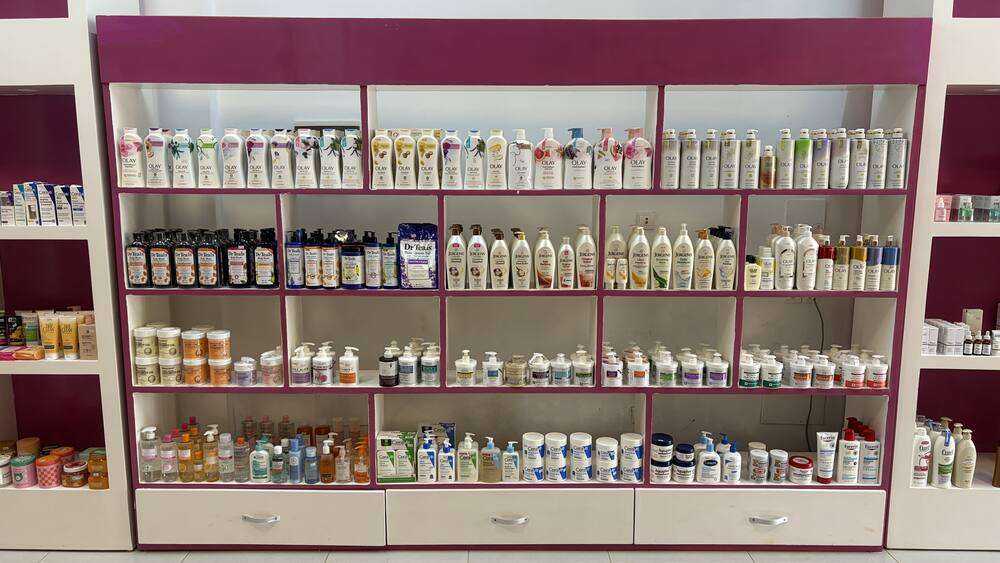
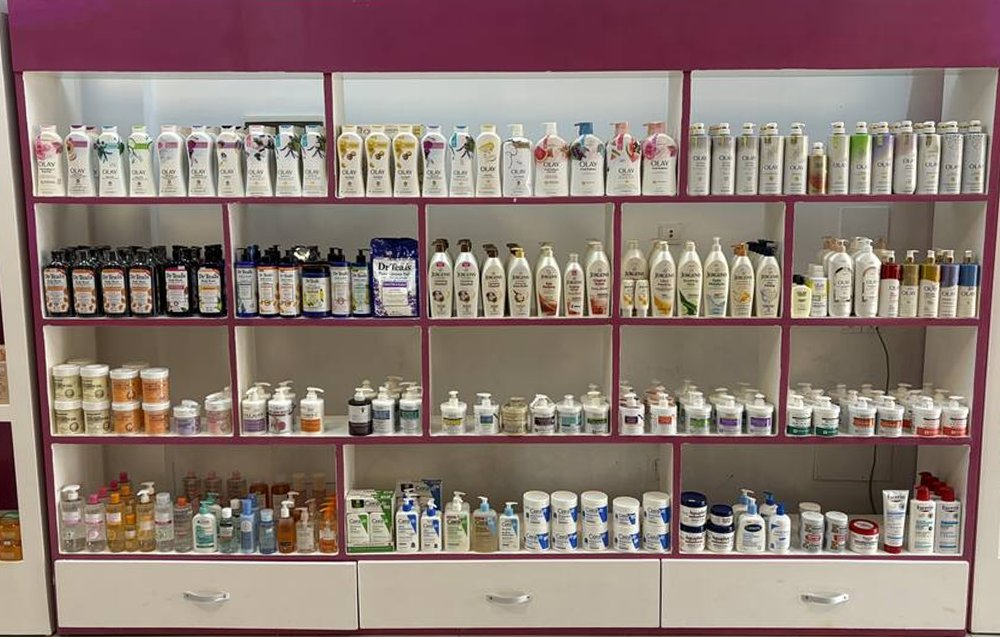
Stock1981: straightened Balkuy photos for 1D 1F 1S 2C 2D 3A 3O 3S 4O F3b M1 (chosen by 1981) with matching shelf boxes; older boxes drawn on the old photos ignored
Claude-Session: https://claude.ai/code/session_01TC7EvBJdmZnMjNwqv5DwfL

diff --git a/Stock1981.html b/Stock1981.html
@@ -1527,7 +1527,7 @@ function finishUnit(){
 //  An Admin can move / resize boxes (✏ Ajuster les cases) and save them to
 //  the Sheet (setZonePhotoTraces), for everyone.
 // ══════════════════════════════════════════════════════════════════
-const TRACES_BUILTIN = {"Store 1":{"1A":{"pw":563,"ph":1000,"spots":{"1A-4":[33,9,35,21],"1A-3":[33,39,35,17],"1A-2":[33,57,35,16],"1A-1":[33,74,35,16]}},"1B":{"pw":1000,"ph":563,"spots":{"1B-5-1":[14,18,18.5,12],"1B-5-2":[33,18,18.5,12],"1B-5-3":[52,18,18,12],"1B-5-4":[70.5,18,15.5,12],"1B-4-1":[14,30,18.5,13],"1B-4-2":[33,30,18.5,13],"1B-4-3":[52,30,18,13],"1B-4-4":[70.5,30,15.5,13],"1B-3-1":[14,43,18.5,14],"1B-3-2":[33,43,18.5,14],"1B-3-3":[52,43,18,14],"1B-3-4":[70.5,43,15.5,14],"1B-2-1":[14,57,18.5,13],"1B-2-2":[33,57,18.5,13],"1B-2-3":[52,57,18,13],"1B-2-4":[70.5,57,15.5,13],"1B-1-1":[14,70,18.5,14],"1B-1-2":[33,70,18.5,14],"1B-1-3":[52,70,18,14],"1B-1-4":[70.5,70,15.5,14],"1B-T1":[14,85,18.5,12],"1B-T2":[33,85,18.5,12],"1B-T3":[52,85,18,12],"1B-T4":[70.5,85,15.5,12]}},"1C":{"pw":563,"ph":1000,"spots":{"1C-4":[34,16,35,17],"1C-3":[34,40,35,14],"1C-2":[34,55,35,13],"1C-1":[34,69,35,12]}},"1D":{"pw":1000,"ph":938,"spots":{"1D-4-1":[2,20,34,15],"1D-4-2":[37,20,29,15],"1D-4-3":[67,20,27,15],"1D-3-1":[2,35,34,17],"1D-3-2":[37,35,29,17],"1D-3-3":[67,35,27,17],"1D-2-1":[2,53,34,16],"1D-2-2":[37,53,29,16],"1D-2-3":[67,53,27,16],"1D-1-1":[2,70,34,16],"1D-1-2":[37,70,29,16],"1D-1-3":[67,70,27,16],"1D-T1":[2,87,34,11],"1D-T2":[37,87,29,11],"1D-T3":[67,87,27,11]}},"1E":{"pw":563,"ph":1000,"spots":{"1E-4":[21,9,46,21],"1E-3":[21,40,46,16],"1E-2":[21,57,46,16],"1E-1":[21,74,46,17]}},"1F":{"pw":1000,"ph":563,"spots":{"1F-4-1":[10,17,26,14],"1F-4-2":[36,17,30,14],"1F-4-3":[66,17,25,14],"1F-3-1":[10,32,19,18],"1F-3-2":[29,32,15,18],"1F-3-3":[44,32,16,18],"1F-3-4":[60,32,15,18],"1F-3-5":[75,32,16,18],"1F-2-1":[10,51,19,16],"1F-2-2":[29,51,15,16],"1F-2-3":[44,51,16,16],"1F-2-4":[60,51,15,16],"1F-2-5":[75,51,16,16],"1F-1-1":[10,68,28,16],"1F-1-2":[38,68,25,16],"1F-1-3":[63,68,28,16],"1F-T1":[13,85,25,12],"1F-T2":[38,85,25,12],"1F-T3":[63,85,26,12]}},"1G":{"pw":563,"ph":1000,"spots":{"1G-4":[25,7,35,20],"1G-3":[25,35,35,17],"1G-2":[25,53,35,16],"1G-1":[25,70,35,16]}},"1H":{"pw":563,"ph":1000,"spots":{"1H-4-1":[11,30,49,15],"1H-4-2":[60,30,33,13],"1H-3-1":[11,45,35,13],"1H-3-2":[47,45,24,12],"1H-3-3":[71,44,22,12],"1H-2-1":[11,58,34,13],"1H-2-2":[46,57,24,12],"1H-2-3":[70,56,23,11],"1H-1-1":[11,71,34,13],"1H-1-2":[45,69,25,12],"1H-1-3":[70,67,23,11],"1H-T1":[11,84,47,12],"1H-T2":[58,81,34,11]}},"1O":{"pw":563,"ph":1000,"spots":{"1O-7":[57,17,40,10],"1O-6":[57,27,40,9],"1O-5":[57,36,40,10],"1O-4":[57,46,40,10],"1O-3":[57,56,40,10],"1O-2":[57,66,40,11],"1O-1":[57,77,40,15]}},"2A":{"pw":563,"ph":1000,"spots":{"2A-5":[56,15,40,13],"2A-4":[56,28,40,12],"2A-3":[56,40,40,12],"2A-2":[56,51,40,12],"2A-1":[57,62,38,12],"2A-T1":[57,74,38,13],"2A-C6":[25,8,30,13],"2A-C5":[25,21,30,14],"2A-C4":[25,35,30,15],"2A-C3":[25,50,30,13],"2A-C2":[25,63,30,12],"2A-C1":[25,75,30,15]}},"2B":{"pw":563,"ph":1000,"spots":{"2B-5":[3,17,42,14],"2B-4":[3,29,42,13],"2B-3":[3,40,42,13],"2B-2":[3,50,42,13],"2B-1":[3,60,42,14],"2B-T1":[3,72,42,16],"2B-C6":[46,5,34,15],"2B-C5":[46,20,34,17],"2B-C4":[46,37,34,16],"2B-C3":[46,53,34,15],"2B-C2":[46,68,34,14],"2B-C1":[46,82,34,14]}},"2C":{"pw":1000,"ph":563,"spots":{"2C-3":[22,20,51,21],"2C-2":[22,41,51,25],"2C-1":[22,66,51,24],"2C-G5":[14,18,9,12],"2C-G4":[14,30,9,16],"2C-G3":[14,46,9,14],"2C-G2":[14,60,9,12],"2C-G1":[14,72,9,15],"2C-D5":[73,26,13,10],"2C-D4":[73,36,13,12],"2C-D3":[73,48,13,10],"2C-D2":[73,58,13,12],"2C-D1":[73,70,13,12]}},"2D":{"pw":563,"ph":1000,"spots":{"2D-4":[5,27,90,14],"2D-3":[6,41,88,15],"2D-2":[8,56,85,16],"2D-1":[10,72,80,14],"2D-T1":[12,86,38,13],"2D-T2":[50,78,40,13]}},"3A":{"pw":563,"ph":1000,"spots":{"3A-5-1":[6,36,34,10],"3A-4-1":[6,46,34,10],"3A-3-1":[6,56,34,10],"3A-2-1":[6,66,34,9],"3A-1-1":[6,75,34,9],"3A-T1":[6,84,34,11],"3A-5-2":[42,37,29,9],"3A-4-2":[42,46,29,9],"3A-3-2":[42,55,29,9],"3A-2-2":[42,64,29,8],"3A-1-2":[42,72,29,9],"3A-T2":[42,81,29,10],"3A-5-3":[72,37,25,8],"3A-4-3":[72,45,25,8],"3A-3-3":[72,53,25,9],"3A-2-3":[72,62,25,8],"3A-1-3":[72,70,25,8],"3A-T3":[72,78,25,10]}},"M2":{"pw":563,"ph":1000,"spots":{"M2-6":[16,12,64,13],"M2-5":[16,25,64,12],"M2-4":[16,37,64,12],"M2-3":[16,49,64,11],"M2-2":[16,60,64,11],"M2-1":[16,71,64,11]}},"V1":{"pw":563,"ph":1000,"spots":{"V1-3":[3,33,85,27],"V1-2":[4,60,82,7],"V1-1":[4,66,82,8],"V1-T1":[4,74,20,12],"V1-T2":[24,75,30,15],"V1-T3":[55,78,32,15]}},"V2":{"pw":563,"ph":1000,"spots":{"V2-3":[4,42,90,26],"V2-2":[5,67,88,6],"V2-1":[5,72,88,9],"V2-T1":[5,74,22,10],"V2-T2":[27,76,28,12],"V2-T3":[57,80,34,14]}},"F1":{"pw":562,"ph":1000,"spots":{"F1-5":[4,18,88,13],"F1-4":[4,31,88,13],"F1-3":[4,44,88,14],"F1-2":[4,58,88,12],"F1-1":[4,70,88,18]}},"F2":{"pw":563,"ph":1000,"spots":{"F2-5":[12,3,86,14],"F2-4":[12,17,86,16],"F2-3":[12,33,86,19],"F2-2":[14,52,84,16],"F2-1":[14,67,84,26]}},"F3a":{"pw":562,"ph":1000,"spots":{"F3a-5":[2,10,70,18],"F3a-4":[5,27,85,13],"F3a-3":[5,40,85,16],"F3a-2":[5,55,80,14],"F3a-1":[5,68,75,25]}},"F4a":{"pw":562,"ph":1000,"spots":{"F4a-5":[30,12,40,12],"F4a-4":[30,24,40,12],"F4a-3":[30,36,40,14],"F4a-2":[30,50,40,13],"F4a-1":[30,63,40,20]}},"F4b":{"pw":562,"ph":1000,"spots":{"F4b-5":[25,3,60,15],"F4b-4":[18,18,65,15],"F4b-3":[15,33,60,15],"F4b-2":[15,47,50,19],"F4b-1":[18,65,50,25]}},"F5":{"pw":562,"ph":1000,"spots":{"F5-5":[5,3,40,17],"F5-4":[5,20,80,18],"F5-3":[5,38,80,12],"F5-2":[5,50,80,13],"F5-1":[5,62,75,30]}},"F6":{"pw":562,"ph":1000,"spots":{"F6-5":[10,12,75,12],"F6-4":[10,24,75,12],"F6-3":[10,36,75,16],"F6-2":[10,52,75,16],"F6-1":[10,68,75,25]}},"F7a":{"pw":562,"ph":1000,"spots":{"F7a-5":[0,3,45,12],"F7a-4":[0,15,45,18],"F7a-3":[0,33,45,17],"F7a-2":[0,50,45,14],"F7a-1":[0,64,45,30]}},"F7b":{"pw":563,"ph":1000,"spots":{"F7b-5":[5,10,85,14],"F7b-4":[5,24,85,14],"F7b-3":[5,38,85,12],"F7b-2":[5,50,80,16],"F7b-1":[5,66,70,30]}},"F8a":{"pw":562,"ph":1000,"spots":{"F8a-5":[5,8,75,13],"F8a-4":[5,21,75,16],"F8a-3":[5,37,75,21],"F8a-2":[10,58,70,14],"F8a-1":[10,72,70,22]}},"F8b":{"pw":562,"ph":1000,"spots":{"F8b-5":[5,12,90,12],"F8b-4":[5,25,90,10],"F8b-3":[5,35,90,15],"F8b-2":[5,50,90,12],"F8b-1":[5,62,90,33]}},"F9":{"pw":562,"ph":1000,"spots":{"F9-5":[22,18,55,14],"F9-4":[22,32,55,10],"F9-3":[22,42,55,13],"F9-2":[22,55,50,13],"F9-1":[22,68,45,25]}},"F10":{"pw":562,"ph":1000,"spots":{"F10-5":[70,25,28,12],"F10-4":[70,38,28,12],"F10-3":[70,50,28,12],"F10-2":[70,62,28,14],"F10-1":[70,76,28,16]}},"F11a":{"pw":562,"ph":1000,"spots":{"F11a-5":[25,8,60,12],"F11a-4":[25,20,60,14],"F11a-3":[25,35,60,14],"F11a-2":[25,49,60,15],"F11a-1":[25,64,60,24]}},"F11b":{"pw":562,"ph":1000,"spots":{"F11b-5":[0,18,60,12],"F11b-4":[0,30,60,12],"F11b-3":[0,42,60,13],"F11b-2":[0,55,60,13],"F11b-1":[0,68,60,25]}},"F13":{"pw":563,"ph":1000,"spots":{"F13-5":[2,10,78,13],"F13-4":[2,24,78,13],"F13-3":[2,37,78,13],"F13-2":[2,50,75,14],"F13-1":[2,64,70,30]}},"Rice":{"pw":562,"ph":1000,"spots":{"Rice-W":[5,32,95,62]}},"PT":{"pw":562,"ph":1000,"spots":{"PT-W":[0,26,100,52]}},"GLV":{"pw":562,"ph":1000,"spots":{"GLV-W":[5,22,93,60]}},"M1":{"pw":504,"ph":1000,"spots":{"M1-6":[18.0,13.0,70.0,11.0],"M1-5":[18.0,25.0,70.0,11.5],"M1-4":[18.0,37.5,70.0,11.0],"M1-3":[18.0,49.5,70.0,11.0],"M1-2":[19.0,61.5,69.0,10.0],"M1-1":[19.0,72.5,69.0,10.5]}},"F3b":{"pw":563,"ph":1000,"spots":{"F3b-5":[14.0,9.0,73.0,12.5],"F3b-4":[15.0,22.5,71.0,12.5],"F3b-3":[16.0,36.0,68.0,15.5],"F3b-2":[17.0,53.0,65.0,11.0],"F3b-1":[18.0,65.0,63.0,12.0]}},"2O":{"pw":563,"ph":1000,"spots":{"2O-7":[10,5,73,10.5],"2O-6":[12,17,69,12.5],"2O-5":[13,31,67,12],"2O-4":[13,44,66,12],"2O-3":[14,57.5,64,10.5],"2O-2":[15,69.5,63,10.5],"2O-1":[15,81.5,62,10]}},"3O":{"pw":562,"ph":1000,"spots":{"3O-7":[17.0,7.0,66.0,12.0],"3O-6":[19.0,21.0,62.0,11.5],"3O-5":[20.0,33.5,60.0,11.5],"3O-4":[21.0,45.5,58.0,12.0],"3O-3":[22.0,57.0,56.0,12.5],"3O-2":[23.0,68.0,55.0,12.5],"3O-1":[24.0,79.0,54.0,13.5]}},"4O":{"pw":562,"ph":1000,"spots":{"4O-7":[15.0,8.0,62.0,12.5],"4O-6":[16.0,22.0,59.0,12.0],"4O-5":[17.0,35.0,57.0,12.0],"4O-4":[18.0,47.5,55.0,11.0],"4O-3":[19.0,59.0,54.0,10.5],"4O-2":[20.0,70.0,52.0,10.5],"4O-1":[20.0,80.5,52.0,13.0]}},"5O":{"pw":563,"ph":1000,"spots":{"5O-7":[18.0,4.0,70.0,11.0],"5O-6":[18.0,16.5,68.0,13.5],"5O-5":[18.0,31.5,66.0,12.5],"5O-4":[18.0,45.0,65.0,12.0],"5O-3":[18.0,58.5,63.0,11.0],"5O-2":[18.0,70.5,62.0,10.5],"5O-1":[17.0,81.5,62.0,11.0]}},"6O":{"pw":562,"ph":1000,"spots":{"6O-7":[10.0,8.0,70.0,10.5],"6O-6":[11.0,20.5,68.0,12.0],"6O-5":[12.0,34.0,66.0,11.5],"6O-4":[13.0,47.0,64.0,11.0],"6O-3":[14.0,59.0,61.0,10.5],"6O-2":[15.0,70.5,59.0,9.5],"6O-1":[15.0,81.0,59.0,10.0]}},"1S":{"pw":1000,"ph":563,"spots":{"1S-5":[11.0,0.5,83.0,13.5],"1S-4":[12.0,14.5,82.0,18.0],"1S-3":[13.0,33.0,80.0,23.0],"1S-2":[14.0,57.0,78.0,17.5],"1S-1":[15.0,75.5,76.0,21.5]}},"2S":{"pw":1000,"ph":563,"spots":{"2S-5":[2.0,0.5,79.0,15.5],"2S-4":[2.0,17.0,79.0,15.0],"2S-3":[2.0,33.0,78.0,22.0],"2S-2":[2.0,55.5,78.0,18.0],"2S-1":[2.0,74.0,78.0,19.0]}},"3S":{"pw":562,"ph":1000,"spots":{"3S-5":[0.5,17.0,99.0,11.5],"3S-4":[0.5,29.5,99.0,13.0],"3S-3":[0.5,43.5,99.0,19.5],"3S-2":[0.5,64.0,99.0,13.5],"3S-1":[0.5,78.0,99.0,14.0]}}},"Store 2":{"A1":{"pw":563,"ph":1000,"spots":{"A1-5":[19.0,6.0,59.0,13.0],"A1-4":[19.0,21.0,59.0,12.5],"A1-3":[19.0,34.0,59.0,11.5],"A1-2":[19.0,46.0,59.0,11.5],"A1-1":[19.0,58.0,59.0,11.5],"A1-T1":[19.0,71.0,58.0,15.0]}},"A2":{"pw":563,"ph":1000,"spots":{"A2-5":[21.0,5.0,64.0,12.0],"A2-4":[21.0,22.0,64.0,12.0],"A2-3":[21.0,35.5,64.0,12.0],"A2-2":[21.0,48.5,64.0,12.0],"A2-1":[21.0,61.5,64.0,12.0],"A2-T1":[21.0,76.5,63.0,17.5]}},"A3":{"pw":563,"ph":1000,"spots":{"A3-5":[25.0,10.0,60.0,11.5],"A3-4":[25.0,26.0,60.0,11.5],"A3-3":[25.0,38.5,60.0,11.0],"A3-2":[25.0,50.5,60.0,11.5],"A3-1":[25.0,63.0,60.0,11.5],"A3-T1":[24.5,77.0,60.0,17.0]}},"A4":{"pw":563,"ph":1000,"spots":{"A4-4":[3.0,8.0,77.0,15.5],"A4-3":[4.0,25.0,76.0,14.5],"A4-2":[4.0,41.0,76.0,14.0],"A4-1":[5.0,56.0,75.0,15.0],"A4-T1":[6.0,72.5,74.0,21.0]}},"A5":{"pw":563,"ph":1000,"spots":{"A5-5":[53.0,6.5,43.0,12.0],"A5-4":[53.0,21.0,43.0,13.0],"A5-3":[53.0,35.5,43.0,11.0],"A5-2":[53.0,48.0,43.0,11.0],"A5-1":[53.0,60.5,43.0,11.0],"A5-T1":[54.0,74.0,41.0,15.5]}},"A6":{"pw":563,"ph":1000,"spots":{"A6-5":[51.0,6.0,44.0,12.5],"A6-4":[51.0,20.5,44.0,14.0],"A6-3":[52.0,36.0,43.0,11.5],"A6-2":[52.0,49.0,43.0,11.0],"A6-1":[52.0,62.0,43.0,12.0],"A6-T1":[53.0,76.5,42.0,17.5]}},"A7":{"pw":563,"ph":1000,"spots":{"A7-5":[4.0,7.0,44.0,12.5],"A7-4":[4.0,22.0,44.0,13.5],"A7-3":[5.0,37.0,43.0,12.0],"A7-2":[5.0,50.0,43.0,11.5],"A7-1":[5.0,63.0,43.0,12.0],"A7-T1":[6.0,78.0,42.0,17.5]}},"A8":{"pw":563,"ph":1000,"spots":{"A8-5":[27.0,6.0,42.0,12.0],"A8-4":[27.0,21.0,42.0,13.0],"A8-3":[27.0,35.0,42.0,11.0],"A8-2":[27.0,47.0,42.0,11.5],"A8-1":[28.0,59.5,41.0,10.5],"A8-T1":[28.0,72.0,41.0,15.0]}},"B1":{"pw":562,"ph":1000,"spots":{"B1-5-1":[18.0,18.0,69.0,13.0],"B1-4-1":[18.0,31.0,70.0,8.5],"B1-3-1":[18.0,40.0,69.0,14.5],"B1-2-1":[18.0,55.0,69.0,14.5],"B1-1-1":[19.0,70.0,67.0,14.0],"B1-4-3":[3.0,31.0,13.0,8.0],"B1-3-3":[3.0,40.0,13.0,14.0],"B1-2-3":[4.0,55.0,12.0,13.0],"B1-1-3":[5.0,69.0,12.0,9.0]}},"B2":{"pw":563,"ph":1000,"spots":{"B2-5":[12.0,16.0,77.0,11.5],"B2-4":[12.0,28.0,76.0,13.0],"B2-3":[12.0,41.5,75.0,12.5],"B2-2":[13.0,54.5,73.0,12.0],"B2-1":[14.0,66.5,71.0,11.5],"B2-T1":[14.0,78.0,34.0,7.5],"B2-T2":[49.0,78.0,37.0,7.5]}},"B10":{"pw":563,"ph":1000,"spots":{"B10-4-1":[20.0,25.0,66.0,19.0],"B10-3-1":[21.0,45.0,63.0,13.0],"B10-2-1":[22.0,59.0,61.0,12.0],"B10-1-1":[22.0,72.0,59.0,11.0],"B10-4-3":[9.0,30.0,11.0,14.0],"B10-3-3":[9.0,45.0,12.0,13.0],"B10-2-3":[12.0,59.0,10.0,12.0],"B10-1-3":[13.0,72.0,9.0,11.0]}},"B4":{"pw":563,"ph":1000,"spots":{"B4-7":[11.0,1.5,68.0,10.5],"B4-6":[11.0,13.0,68.0,12.5],"B4-5":[12.0,27.0,67.0,11.5],"B4-4":[12.0,40.0,66.0,11.5],"B4-3":[13.0,52.5,65.0,10.5],"B4-2":[13.0,64.0,64.0,11.0],"B4-1":[13.0,76.0,64.0,15.5]}},"B5":{"pw":563,"ph":1000,"spots":{"B5-7":[7.0,2.0,69.0,10.5],"B5-6":[9.0,13.5,67.0,13.0],"B5-5":[11.0,28.0,64.0,12.0],"B5-4":[12.0,41.5,62.0,10.5],"B5-3":[13.0,53.0,61.0,10.0],"B5-2":[15.0,64.0,59.0,10.0],"B5-1":[15.0,75.0,58.0,12.0]}},"B8":{"pw":563,"ph":1000,"spots":{"B8-7":[20.0,1.0,59.0,14.5],"B8-6":[19.0,17.0,62.0,12.5],"B8-5":[19.0,31.0,62.0,11.5],"B8-4":[18.0,43.5,63.0,11.0],"B8-3":[18.0,55.5,62.0,11.0],"B8-2":[18.0,67.5,60.0,10.0],"B8-1":[17.0,78.5,61.0,15.0]}},"B11":{"pw":563,"ph":1000,"spots":{"B11-7":[22.0,8.0,62.0,10.5],"B11-6":[23.0,20.0,61.0,10.5],"B11-5":[24.0,32.0,59.0,10.5],"B11-4":[25.0,44.0,57.0,9.5],"B11-3":[25.0,55.0,57.0,9.5],"B11-2":[26.0,66.0,56.0,9.5],"B11-1":[26.0,76.5,56.0,12.0]}},"B12":{"pw":563,"ph":1000,"spots":{"B12-7":[14.0,9.5,64.0,11.0],"B12-6":[15.0,22.5,63.0,10.5],"B12-5":[15.0,34.5,62.0,10.5],"B12-4":[16.0,46.0,60.0,10.0],"B12-3":[16.0,57.0,59.0,10.0],"B12-2":[17.0,68.0,57.0,10.0],"B12-1":[17.0,79.0,57.0,12.5]}},"B13":{"pw":563,"ph":1000,"spots":{"B13-7":[18.0,9.0,56.0,12.0],"B13-6":[18.0,23.0,57.0,10.0],"B13-5":[18.0,34.5,57.0,9.5],"B13-4":[19.0,45.5,56.0,9.0],"B13-3":[20.0,56.0,55.0,9.0],"B13-2":[20.0,66.5,54.0,9.0],"B13-1":[20.0,77.0,54.0,11.0]}},"B9":{"pw":1000,"ph":563,"spots":{"B9-5":[5.0,3.0,76.0,14.0],"B9-4":[5.0,19.0,75.0,20.0],"B9-3":[6.0,40.0,73.0,18.0],"B9-2":[7.0,59.0,70.0,16.0],"B9-1":[8.0,76.0,68.0,16.0]}},"m2":{"pw":563,"ph":1000,"spots":{"m2-6":[9.0,14.0,82.0,14.0],"m2-5":[10.0,29.0,80.0,13.0],"m2-4":[11.0,43.0,79.0,12.0],"m2-3":[12.0,55.5,78.0,11.0],"m2-2":[13.0,67.0,77.0,11.0],"m2-1":[13.0,78.5,76.0,12.0]}},"B14":{"pw":563,"ph":1000,"spots":{"B14-7":[9.0,17.0,71.0,12.0],"B14-6":[10.0,30.0,70.0,11.0],"B14-5":[11.0,42.0,69.0,11.5],"B14-4":[12.0,54.0,67.0,10.5],"B14-3":[13.0,65.0,66.0,10.0],"B14-2":[14.0,75.0,64.0,9.5],"B14-1":[15.0,85.0,63.0,9.5]}},"P1":{"pw":563,"ph":1000,"spots":{"P1-6":[29.0,23.0,34.0,6.5],"P1-5":[29.0,30.0,33.0,7.0],"P1-4":[29.0,37.5,33.0,7.5],"P1-3":[28.0,45.5,33.0,7.0],"P1-2":[28.0,53.0,33.0,7.0],"P1-1":[28.0,60.5,32.0,8.5]}},"m3":{"pw":1000,"ph":563,"spots":{"m3-3":[4.0,18.0,90.0,19.0],"m3-2":[5.0,40.0,85.0,18.0],"m3-1":[5.0,59.0,84.0,18.0]}},"D1":{"pw":563,"ph":1000,"spots":{"D1-7":[38.0,3.0,21.0,13.5],"D1-6":[38.0,17.0,20.0,13.5],"D1-5":[38.0,31.0,20.0,12.0],"D1-4":[38.0,43.5,20.0,11.5],"D1-3":[38.0,55.5,20.0,11.0],"D1-2":[38.0,67.0,20.0,11.0],"D1-1":[38.0,78.5,20.0,12.5]}}}};
+const TRACES_BUILTIN = {"Store 1":{"1A":{"pw":563,"ph":1000,"spots":{"1A-4":[33,9,35,21],"1A-3":[33,39,35,17],"1A-2":[33,57,35,16],"1A-1":[33,74,35,16]}},"1B":{"pw":1000,"ph":563,"spots":{"1B-5-1":[14,18,18.5,12],"1B-5-2":[33,18,18.5,12],"1B-5-3":[52,18,18,12],"1B-5-4":[70.5,18,15.5,12],"1B-4-1":[14,30,18.5,13],"1B-4-2":[33,30,18.5,13],"1B-4-3":[52,30,18,13],"1B-4-4":[70.5,30,15.5,13],"1B-3-1":[14,43,18.5,14],"1B-3-2":[33,43,18.5,14],"1B-3-3":[52,43,18,14],"1B-3-4":[70.5,43,15.5,14],"1B-2-1":[14,57,18.5,13],"1B-2-2":[33,57,18.5,13],"1B-2-3":[52,57,18,13],"1B-2-4":[70.5,57,15.5,13],"1B-1-1":[14,70,18.5,14],"1B-1-2":[33,70,18.5,14],"1B-1-3":[52,70,18,14],"1B-1-4":[70.5,70,15.5,14],"1B-T1":[14,85,18.5,12],"1B-T2":[33,85,18.5,12],"1B-T3":[52,85,18,12],"1B-T4":[70.5,85,15.5,12]}},"1C":{"pw":563,"ph":1000,"spots":{"1C-4":[34,16,35,17],"1C-3":[34,40,35,14],"1C-2":[34,55,35,13],"1C-1":[34,69,35,12]}},"1D":{"pw":1000,"ph":986,"spots":{"1D-4-1":[1,10,36,21],"1D-4-2":[38,10,34,21],"1D-4-3":[73,10,26,21],"1D-3-1":[1,31,36,18],"1D-3-2":[38,31,34,18],"1D-3-3":[73,31,26,18],"1D-2-1":[1,49,36,17],"1D-2-2":[38,49,34,17],"1D-2-3":[73,49,26,17],"1D-1-1":[1,66,36,19],"1D-1-2":[38,66,34,19],"1D-1-3":[73,66,26,19],"1D-T1":[1,85,36,14],"1D-T2":[38,85,34,14],"1D-T3":[73,85,26,14]}},"1E":{"pw":563,"ph":1000,"spots":{"1E-4":[21,9,46,21],"1E-3":[21,40,46,16],"1E-2":[21,57,46,16],"1E-1":[21,74,46,17]}},"1F":{"pw":1000,"ph":637,"spots":{"1F-4-1":[3,10,30,21],"1F-4-2":[33,10,34,21],"1F-4-3":[67,10,31,21],"1F-3-1":[3,31,21,19],"1F-3-2":[24,31,20,19],"1F-3-3":[44,31,19,19],"1F-3-4":[63,31,19,19],"1F-3-5":[82,31,16,19],"1F-2-1":[3,50,21,19],"1F-2-2":[24,50,20,19],"1F-2-3":[44,50,19,19],"1F-2-4":[63,50,19,19],"1F-2-5":[82,50,16,19],"1F-1-1":[3,69,33,19],"1F-1-2":[36,69,33,19],"1F-1-3":[69,69,29,19],"1F-T1":[5,88,31,12],"1F-T2":[36,88,32,12],"1F-T3":[68,88,29,12]}},"1G":{"pw":563,"ph":1000,"spots":{"1G-4":[25,7,35,20],"1G-3":[25,35,35,17],"1G-2":[25,53,35,16],"1G-1":[25,70,35,16]}},"1H":{"pw":563,"ph":1000,"spots":{"1H-4-1":[11,30,49,15],"1H-4-2":[60,30,33,13],"1H-3-1":[11,45,35,13],"1H-3-2":[47,45,24,12],"1H-3-3":[71,44,22,12],"1H-2-1":[11,58,34,13],"1H-2-2":[46,57,24,12],"1H-2-3":[70,56,23,11],"1H-1-1":[11,71,34,13],"1H-1-2":[45,69,25,12],"1H-1-3":[70,67,23,11],"1H-T1":[11,84,47,12],"1H-T2":[58,81,34,11]}},"1O":{"pw":563,"ph":1000,"spots":{"1O-7":[57,17,40,10],"1O-6":[57,27,40,9],"1O-5":[57,36,40,10],"1O-4":[57,46,40,10],"1O-3":[57,56,40,10],"1O-2":[57,66,40,11],"1O-1":[57,77,40,15]}},"2A":{"pw":563,"ph":1000,"spots":{"2A-5":[56,15,40,13],"2A-4":[56,28,40,12],"2A-3":[56,40,40,12],"2A-2":[56,51,40,12],"2A-1":[57,62,38,12],"2A-T1":[57,74,38,13],"2A-C6":[25,8,30,13],"2A-C5":[25,21,30,14],"2A-C4":[25,35,30,15],"2A-C3":[25,50,30,13],"2A-C2":[25,63,30,12],"2A-C1":[25,75,30,15]}},"2B":{"pw":563,"ph":1000,"spots":{"2B-5":[3,17,42,14],"2B-4":[3,29,42,13],"2B-3":[3,40,42,13],"2B-2":[3,50,42,13],"2B-1":[3,60,42,14],"2B-T1":[3,72,42,16],"2B-C6":[46,5,34,15],"2B-C5":[46,20,34,17],"2B-C4":[46,37,34,16],"2B-C3":[46,53,34,15],"2B-C2":[46,68,34,14],"2B-C1":[46,82,34,14]}},"2C":{"pw":1000,"ph":585,"spots":{"2C-3":[33,5,44,32],"2C-2":[33,37,44,30],"2C-1":[33,67,44,28],"2C-G5":[3,3,29,17],"2C-G4":[3,20,29,18],"2C-G3":[3,38,29,19],"2C-G2":[3,57,29,20],"2C-G1":[3,77,29,20],"2C-D5":[77,3,17,15],"2C-D4":[77,18,17,18],"2C-D3":[77,36,17,18],"2C-D2":[77,54,17,18],"2C-D1":[77,72,17,20]}},"2D":{"pw":612,"ph":999,"spots":{"2D-4":[0,12,100,19],"2D-3":[0,31,100,20],"2D-2":[0,51,100,17],"2D-1":[0,68,100,20],"2D-T1":[0,88,50,12],"2D-T2":[50,88,50,12]}},"3A":{"pw":872,"ph":1000,"spots":{"3A-5-1":[1,12,32,13],"3A-5-2":[34,12,32,13],"3A-5-3":[67,12,31,13],"3A-4-1":[1,25,32,14],"3A-4-2":[34,25,32,14],"3A-4-3":[67,25,31,14],"3A-3-1":[1,39,32,15],"3A-3-2":[34,39,32,15],"3A-3-3":[67,39,31,15],"3A-2-1":[1,54,32,15],"3A-2-2":[34,54,32,15],"3A-2-3":[67,54,31,15],"3A-1-1":[1,69,32,15],"3A-1-2":[34,69,32,15],"3A-1-3":[67,69,31,15],"3A-T1":[1,85,32,15],"3A-T2":[34,85,32,15],"3A-T3":[67,85,31,15]}},"M2":{"pw":563,"ph":1000,"spots":{"M2-6":[16,12,64,13],"M2-5":[16,25,64,12],"M2-4":[16,37,64,12],"M2-3":[16,49,64,11],"M2-2":[16,60,64,11],"M2-1":[16,71,64,11]}},"V1":{"pw":563,"ph":1000,"spots":{"V1-3":[3,33,85,27],"V1-2":[4,60,82,7],"V1-1":[4,66,82,8],"V1-T1":[4,74,20,12],"V1-T2":[24,75,30,15],"V1-T3":[55,78,32,15]}},"V2":{"pw":563,"ph":1000,"spots":{"V2-3":[4,42,90,26],"V2-2":[5,67,88,6],"V2-1":[5,72,88,9],"V2-T1":[5,74,22,10],"V2-T2":[27,76,28,12],"V2-T3":[57,80,34,14]}},"F1":{"pw":562,"ph":1000,"spots":{"F1-5":[4,18,88,13],"F1-4":[4,31,88,13],"F1-3":[4,44,88,14],"F1-2":[4,58,88,12],"F1-1":[4,70,88,18]}},"F2":{"pw":563,"ph":1000,"spots":{"F2-5":[12,3,86,14],"F2-4":[12,17,86,16],"F2-3":[12,33,86,19],"F2-2":[14,52,84,16],"F2-1":[14,67,84,26]}},"F3a":{"pw":562,"ph":1000,"spots":{"F3a-5":[2,10,70,18],"F3a-4":[5,27,85,13],"F3a-3":[5,40,85,16],"F3a-2":[5,55,80,14],"F3a-1":[5,68,75,25]}},"F4a":{"pw":562,"ph":1000,"spots":{"F4a-5":[30,12,40,12],"F4a-4":[30,24,40,12],"F4a-3":[30,36,40,14],"F4a-2":[30,50,40,13],"F4a-1":[30,63,40,20]}},"F4b":{"pw":562,"ph":1000,"spots":{"F4b-5":[25,3,60,15],"F4b-4":[18,18,65,15],"F4b-3":[15,33,60,15],"F4b-2":[15,47,50,19],"F4b-1":[18,65,50,25]}},"F5":{"pw":562,"ph":1000,"spots":{"F5-5":[5,3,40,17],"F5-4":[5,20,80,18],"F5-3":[5,38,80,12],"F5-2":[5,50,80,13],"F5-1":[5,62,75,30]}},"F6":{"pw":562,"ph":1000,"spots":{"F6-5":[10,12,75,12],"F6-4":[10,24,75,12],"F6-3":[10,36,75,16],"F6-2":[10,52,75,16],"F6-1":[10,68,75,25]}},"F7a":{"pw":562,"ph":1000,"spots":{"F7a-5":[0,3,45,12],"F7a-4":[0,15,45,18],"F7a-3":[0,33,45,17],"F7a-2":[0,50,45,14],"F7a-1":[0,64,45,30]}},"F7b":{"pw":563,"ph":1000,"spots":{"F7b-5":[5,10,85,14],"F7b-4":[5,24,85,14],"F7b-3":[5,38,85,12],"F7b-2":[5,50,80,16],"F7b-1":[5,66,70,30]}},"F8a":{"pw":562,"ph":1000,"spots":{"F8a-5":[5,8,75,13],"F8a-4":[5,21,75,16],"F8a-3":[5,37,75,21],"F8a-2":[10,58,70,14],"F8a-1":[10,72,70,22]}},"F8b":{"pw":562,"ph":1000,"spots":{"F8b-5":[5,12,90,12],"F8b-4":[5,25,90,10],"F8b-3":[5,35,90,15],"F8b-2":[5,50,90,12],"F8b-1":[5,62,90,33]}},"F9":{"pw":562,"ph":1000,"spots":{"F9-5":[22,18,55,14],"F9-4":[22,32,55,10],"F9-3":[22,42,55,13],"F9-2":[22,55,50,13],"F9-1":[22,68,45,25]}},"F10":{"pw":562,"ph":1000,"spots":{"F10-5":[70,25,28,12],"F10-4":[70,38,28,12],"F10-3":[70,50,28,12],"F10-2":[70,62,28,14],"F10-1":[70,76,28,16]}},"F11a":{"pw":562,"ph":1000,"spots":{"F11a-5":[25,8,60,12],"F11a-4":[25,20,60,14],"F11a-3":[25,35,60,14],"F11a-2":[25,49,60,15],"F11a-1":[25,64,60,24]}},"F11b":{"pw":562,"ph":1000,"spots":{"F11b-5":[0,18,60,12],"F11b-4":[0,30,60,12],"F11b-3":[0,42,60,13],"F11b-2":[0,55,60,13],"F11b-1":[0,68,60,25]}},"F13":{"pw":563,"ph":1000,"spots":{"F13-5":[2,10,78,13],"F13-4":[2,24,78,13],"F13-3":[2,37,78,13],"F13-2":[2,50,75,14],"F13-1":[2,64,70,30]}},"Rice":{"pw":562,"ph":1000,"spots":{"Rice-W":[5,32,95,62]}},"PT":{"pw":562,"ph":1000,"spots":{"PT-W":[0,26,100,52]}},"GLV":{"pw":562,"ph":1000,"spots":{"GLV-W":[5,22,93,60]}},"M1":{"pw":443,"ph":1000,"spots":{"M1-7":[3,3,94,13],"M1-6":[3,16,94,13],"M1-5":[3,29,94,12],"M1-4":[3,41,94,12],"M1-3":[3,53,94,11],"M1-2":[3,64,94,12],"M1-1":[3,76,94,20]}},"F3b":{"pw":636,"ph":999,"spots":{"F3b-5":[0,0,96,13],"F3b-4":[0,13,96,19],"F3b-3":[0,32,96,25],"F3b-2":[0,57,96,18],"F3b-1":[0,75,96,22]}},"2O":{"pw":563,"ph":1000,"spots":{"2O-7":[10,5,73,10.5],"2O-6":[12,17,69,12.5],"2O-5":[13,31,67,12],"2O-4":[13,44,66,12],"2O-3":[14,57.5,64,10.5],"2O-2":[15,69.5,63,10.5],"2O-1":[15,81.5,62,10]}},"3O":{"pw":455,"ph":1000,"spots":{"3O-7":[2,2.0,96,13.7],"3O-6":[2,15.7,96,13.7],"3O-5":[2,29.4,96,13.7],"3O-4":[2,43.1,96,13.7],"3O-3":[2,56.9,96,13.7],"3O-2":[2,70.6,96,13.7],"3O-1":[2,84.3,96,13.7]}},"4O":{"pw":404,"ph":1000,"spots":{"4O-7":[2,2.0,96,13.7],"4O-6":[2,15.7,96,13.7],"4O-5":[2,29.4,96,13.7],"4O-4":[2,43.1,96,13.7],"4O-3":[2,56.9,96,13.7],"4O-2":[2,70.6,96,13.7],"4O-1":[2,84.3,96,13.7]}},"5O":{"pw":563,"ph":1000,"spots":{"5O-7":[18.0,4.0,70.0,11.0],"5O-6":[18.0,16.5,68.0,13.5],"5O-5":[18.0,31.5,66.0,12.5],"5O-4":[18.0,45.0,65.0,12.0],"5O-3":[18.0,58.5,63.0,11.0],"5O-2":[18.0,70.5,62.0,10.5],"5O-1":[17.0,81.5,62.0,11.0]}},"6O":{"pw":562,"ph":1000,"spots":{"6O-7":[10.0,8.0,70.0,10.5],"6O-6":[11.0,20.5,68.0,12.0],"6O-5":[12.0,34.0,66.0,11.5],"6O-4":[13.0,47.0,64.0,11.0],"6O-3":[14.0,59.0,61.0,10.5],"6O-2":[15.0,70.5,59.0,9.5],"6O-1":[15.0,81.0,59.0,10.0]}},"1S":{"pw":1000,"ph":636,"spots":{"1S-5":[1,0,98,10],"1S-4":[1,11,98,18],"1S-3":[1,29,98,22],"1S-2":[1,52,98,22],"1S-1":[1,74,98,24]}},"2S":{"pw":1000,"ph":563,"spots":{"2S-5":[2.0,0.5,79.0,15.5],"2S-4":[2.0,17.0,79.0,15.0],"2S-3":[2.0,33.0,78.0,22.0],"2S-2":[2.0,55.5,78.0,18.0],"2S-1":[2.0,74.0,78.0,19.0]}},"3S":{"pw":702,"ph":1000,"spots":{"3S-5":[0,0,100,13],"3S-4":[0,13,100,19],"3S-3":[0,32,100,21],"3S-2":[0,53,100,18],"3S-1":[0,71,100,25]}}},"Store 2":{"A1":{"pw":563,"ph":1000,"spots":{"A1-5":[19.0,6.0,59.0,13.0],"A1-4":[19.0,21.0,59.0,12.5],"A1-3":[19.0,34.0,59.0,11.5],"A1-2":[19.0,46.0,59.0,11.5],"A1-1":[19.0,58.0,59.0,11.5],"A1-T1":[19.0,71.0,58.0,15.0]}},"A2":{"pw":563,"ph":1000,"spots":{"A2-5":[21.0,5.0,64.0,12.0],"A2-4":[21.0,22.0,64.0,12.0],"A2-3":[21.0,35.5,64.0,12.0],"A2-2":[21.0,48.5,64.0,12.0],"A2-1":[21.0,61.5,64.0,12.0],"A2-T1":[21.0,76.5,63.0,17.5]}},"A3":{"pw":563,"ph":1000,"spots":{"A3-5":[25.0,10.0,60.0,11.5],"A3-4":[25.0,26.0,60.0,11.5],"A3-3":[25.0,38.5,60.0,11.0],"A3-2":[25.0,50.5,60.0,11.5],"A3-1":[25.0,63.0,60.0,11.5],"A3-T1":[24.5,77.0,60.0,17.0]}},"A4":{"pw":563,"ph":1000,"spots":{"A4-4":[3.0,8.0,77.0,15.5],"A4-3":[4.0,25.0,76.0,14.5],"A4-2":[4.0,41.0,76.0,14.0],"A4-1":[5.0,56.0,75.0,15.0],"A4-T1":[6.0,72.5,74.0,21.0]}},"A5":{"pw":563,"ph":1000,"spots":{"A5-5":[53.0,6.5,43.0,12.0],"A5-4":[53.0,21.0,43.0,13.0],"A5-3":[53.0,35.5,43.0,11.0],"A5-2":[53.0,48.0,43.0,11.0],"A5-1":[53.0,60.5,43.0,11.0],"A5-T1":[54.0,74.0,41.0,15.5]}},"A6":{"pw":563,"ph":1000,"spots":{"A6-5":[51.0,6.0,44.0,12.5],"A6-4":[51.0,20.5,44.0,14.0],"A6-3":[52.0,36.0,43.0,11.5],"A6-2":[52.0,49.0,43.0,11.0],"A6-1":[52.0,62.0,43.0,12.0],"A6-T1":[53.0,76.5,42.0,17.5]}},"A7":{"pw":563,"ph":1000,"spots":{"A7-5":[4.0,7.0,44.0,12.5],"A7-4":[4.0,22.0,44.0,13.5],"A7-3":[5.0,37.0,43.0,12.0],"A7-2":[5.0,50.0,43.0,11.5],"A7-1":[5.0,63.0,43.0,12.0],"A7-T1":[6.0,78.0,42.0,17.5]}},"A8":{"pw":563,"ph":1000,"spots":{"A8-5":[27.0,6.0,42.0,12.0],"A8-4":[27.0,21.0,42.0,13.0],"A8-3":[27.0,35.0,42.0,11.0],"A8-2":[27.0,47.0,42.0,11.5],"A8-1":[28.0,59.5,41.0,10.5],"A8-T1":[28.0,72.0,41.0,15.0]}},"B1":{"pw":562,"ph":1000,"spots":{"B1-5-1":[18.0,18.0,69.0,13.0],"B1-4-1":[18.0,31.0,70.0,8.5],"B1-3-1":[18.0,40.0,69.0,14.5],"B1-2-1":[18.0,55.0,69.0,14.5],"B1-1-1":[19.0,70.0,67.0,14.0],"B1-4-3":[3.0,31.0,13.0,8.0],"B1-3-3":[3.0,40.0,13.0,14.0],"B1-2-3":[4.0,55.0,12.0,13.0],"B1-1-3":[5.0,69.0,12.0,9.0]}},"B2":{"pw":563,"ph":1000,"spots":{"B2-5":[12.0,16.0,77.0,11.5],"B2-4":[12.0,28.0,76.0,13.0],"B2-3":[12.0,41.5,75.0,12.5],"B2-2":[13.0,54.5,73.0,12.0],"B2-1":[14.0,66.5,71.0,11.5],"B2-T1":[14.0,78.0,34.0,7.5],"B2-T2":[49.0,78.0,37.0,7.5]}},"B10":{"pw":563,"ph":1000,"spots":{"B10-4-1":[20.0,25.0,66.0,19.0],"B10-3-1":[21.0,45.0,63.0,13.0],"B10-2-1":[22.0,59.0,61.0,12.0],"B10-1-1":[22.0,72.0,59.0,11.0],"B10-4-3":[9.0,30.0,11.0,14.0],"B10-3-3":[9.0,45.0,12.0,13.0],"B10-2-3":[12.0,59.0,10.0,12.0],"B10-1-3":[13.0,72.0,9.0,11.0]}},"B4":{"pw":563,"ph":1000,"spots":{"B4-7":[11.0,1.5,68.0,10.5],"B4-6":[11.0,13.0,68.0,12.5],"B4-5":[12.0,27.0,67.0,11.5],"B4-4":[12.0,40.0,66.0,11.5],"B4-3":[13.0,52.5,65.0,10.5],"B4-2":[13.0,64.0,64.0,11.0],"B4-1":[13.0,76.0,64.0,15.5]}},"B5":{"pw":563,"ph":1000,"spots":{"B5-7":[7.0,2.0,69.0,10.5],"B5-6":[9.0,13.5,67.0,13.0],"B5-5":[11.0,28.0,64.0,12.0],"B5-4":[12.0,41.5,62.0,10.5],"B5-3":[13.0,53.0,61.0,10.0],"B5-2":[15.0,64.0,59.0,10.0],"B5-1":[15.0,75.0,58.0,12.0]}},"B8":{"pw":563,"ph":1000,"spots":{"B8-7":[20.0,1.0,59.0,14.5],"B8-6":[19.0,17.0,62.0,12.5],"B8-5":[19.0,31.0,62.0,11.5],"B8-4":[18.0,43.5,63.0,11.0],"B8-3":[18.0,55.5,62.0,11.0],"B8-2":[18.0,67.5,60.0,10.0],"B8-1":[17.0,78.5,61.0,15.0]}},"B11":{"pw":563,"ph":1000,"spots":{"B11-7":[22.0,8.0,62.0,10.5],"B11-6":[23.0,20.0,61.0,10.5],"B11-5":[24.0,32.0,59.0,10.5],"B11-4":[25.0,44.0,57.0,9.5],"B11-3":[25.0,55.0,57.0,9.5],"B11-2":[26.0,66.0,56.0,9.5],"B11-1":[26.0,76.5,56.0,12.0]}},"B12":{"pw":563,"ph":1000,"spots":{"B12-7":[14.0,9.5,64.0,11.0],"B12-6":[15.0,22.5,63.0,10.5],"B12-5":[15.0,34.5,62.0,10.5],"B12-4":[16.0,46.0,60.0,10.0],"B12-3":[16.0,57.0,59.0,10.0],"B12-2":[17.0,68.0,57.0,10.0],"B12-1":[17.0,79.0,57.0,12.5]}},"B13":{"pw":563,"ph":1000,"spots":{"B13-7":[18.0,9.0,56.0,12.0],"B13-6":[18.0,23.0,57.0,10.0],"B13-5":[18.0,34.5,57.0,9.5],"B13-4":[19.0,45.5,56.0,9.0],"B13-3":[20.0,56.0,55.0,9.0],"B13-2":[20.0,66.5,54.0,9.0],"B13-1":[20.0,77.0,54.0,11.0]}},"B9":{"pw":1000,"ph":563,"spots":{"B9-5":[5.0,3.0,76.0,14.0],"B9-4":[5.0,19.0,75.0,20.0],"B9-3":[6.0,40.0,73.0,18.0],"B9-2":[7.0,59.0,70.0,16.0],"B9-1":[8.0,76.0,68.0,16.0]}},"m2":{"pw":563,"ph":1000,"spots":{"m2-6":[9.0,14.0,82.0,14.0],"m2-5":[10.0,29.0,80.0,13.0],"m2-4":[11.0,43.0,79.0,12.0],"m2-3":[12.0,55.5,78.0,11.0],"m2-2":[13.0,67.0,77.0,11.0],"m2-1":[13.0,78.5,76.0,12.0]}},"B14":{"pw":563,"ph":1000,"spots":{"B14-7":[9.0,17.0,71.0,12.0],"B14-6":[10.0,30.0,70.0,11.0],"B14-5":[11.0,42.0,69.0,11.5],"B14-4":[12.0,54.0,67.0,10.5],"B14-3":[13.0,65.0,66.0,10.0],"B14-2":[14.0,75.0,64.0,9.5],"B14-1":[15.0,85.0,63.0,9.5]}},"P1":{"pw":563,"ph":1000,"spots":{"P1-6":[29.0,23.0,34.0,6.5],"P1-5":[29.0,30.0,33.0,7.0],"P1-4":[29.0,37.5,33.0,7.5],"P1-3":[28.0,45.5,33.0,7.0],"P1-2":[28.0,53.0,33.0,7.0],"P1-1":[28.0,60.5,32.0,8.5]}},"m3":{"pw":1000,"ph":563,"spots":{"m3-3":[4.0,18.0,90.0,19.0],"m3-2":[5.0,40.0,85.0,18.0],"m3-1":[5.0,59.0,84.0,18.0]}},"D1":{"pw":563,"ph":1000,"spots":{"D1-7":[38.0,3.0,21.0,13.5],"D1-6":[38.0,17.0,20.0,13.5],"D1-5":[38.0,31.0,20.0,12.0],"D1-4":[38.0,43.5,20.0,11.5],"D1-3":[38.0,55.5,20.0,11.0],"D1-2":[38.0,67.0,20.0,11.0],"D1-1":[38.0,78.5,20.0,12.5]}}}};
 const TRACE_NEW_AT = '2026-10-29';
 const TRACE_NEW_ZONES = ["1A", "1B", "1C", "1D", "1E", "1F", "1G", "1H", "1O", "2A", "2B", "2C", "2D", "3A", "M2", "V1", "V2"];
 let SHEET_TRACES = lsj('s1981_traces', {});
@@ -1535,10 +1535,13 @@ async function loadTraces(){
   if(!URL_ || !KEY) return;
   try { const d = await api({ action:'getZonePhotos' }); if(d && d.success && d.traces){ SHEET_TRACES = d.traces; ls('s1981_traces', JSON.stringify(SHEET_TRACES)); if(VIEW.screen === 'zone') render(); } } catch(e){}
 }
+const TRACE_STRAIGHT_AT = {"1D": "2026-10-31T23:45:00Z", "1F": "2026-10-31T23:45:00Z", "1S": "2026-10-31T23:45:00Z", "2C": "2026-10-31T23:45:00Z", "2D": "2026-10-31T23:45:00Z", "3A": "2026-10-31T23:45:00Z", "3O": "2026-10-31T23:45:00Z", "3S": "2026-10-31T23:45:00Z", "4O": "2026-10-31T23:45:00Z", "F3b": "2026-10-31T23:45:00Z", "M1": "2026-10-31T23:45:00Z"};
 function traceFor(loc, zone){
   const s = SHEET_TRACES[loc] && SHEET_TRACES[loc][zone];
   const isNew = loc === 'Store 1' && TRACE_NEW_ZONES.includes(zone);
-  if(s && s.spots && Object.keys(s.spots).length && (!isNew || String(s.at || '') >= TRACE_NEW_AT)) return Object.assign({ src:'sheet' }, s);
+  // zones whose photo was replaced by a straightened one (31 Oct 2026): boxes drawn on the old photo are ignored
+  const straightAt = loc === 'Store 1' ? TRACE_STRAIGHT_AT[zone] : '';
+  if(s && s.spots && Object.keys(s.spots).length && (!isNew || String(s.at || '') >= TRACE_NEW_AT) && (!straightAt || String(s.at || '') >= straightAt)) return Object.assign({ src:'sheet' }, s);
   const b = TRACES_BUILTIN[loc] && TRACES_BUILTIN[loc][zone];
   return b ? Object.assign({ src:'builtin' }, b) : null;
 }
